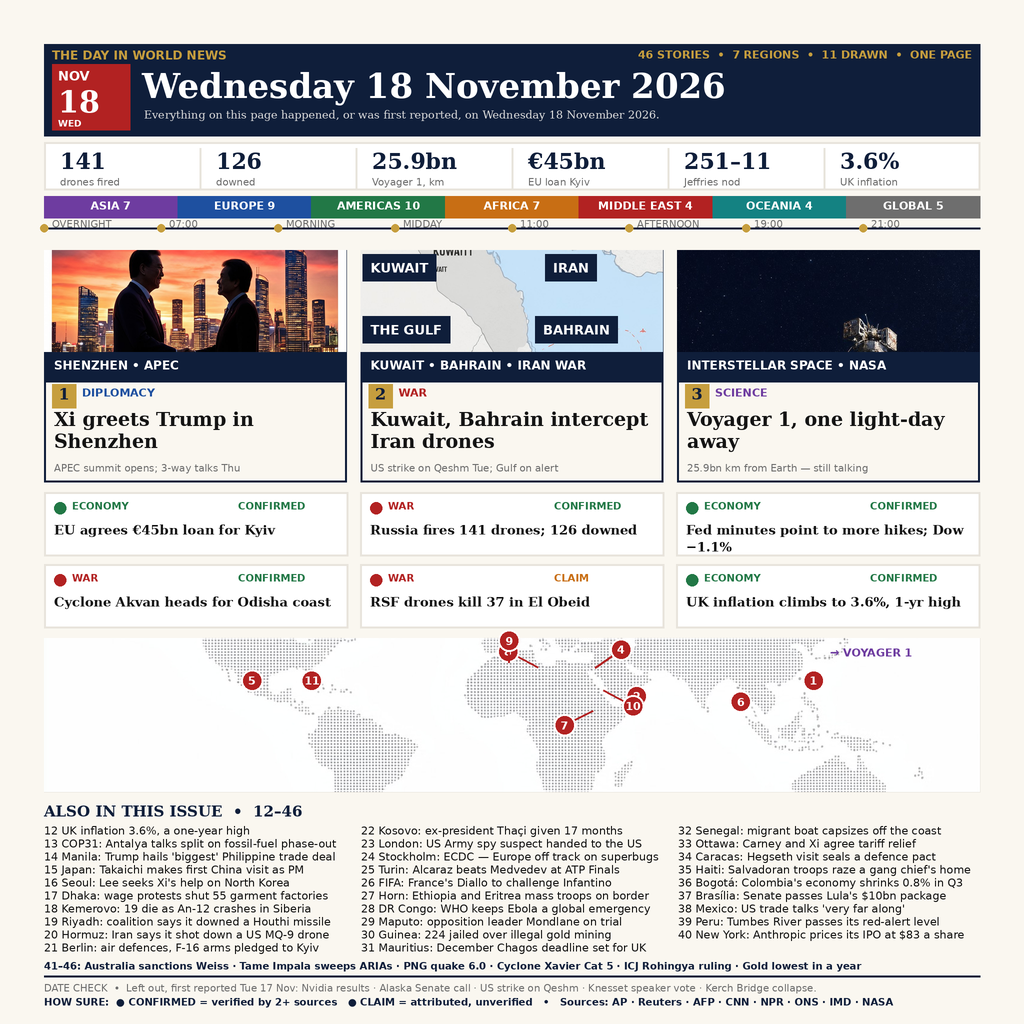
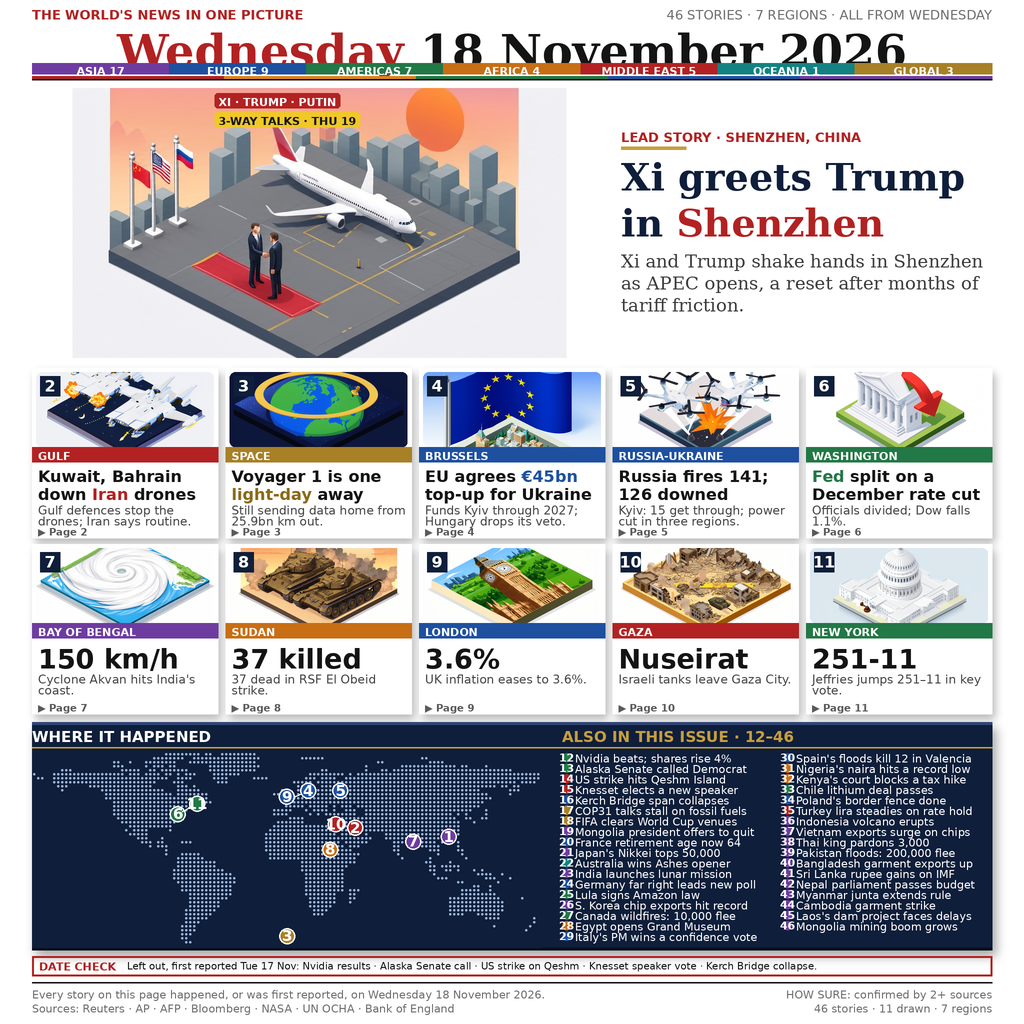
Round 31: THE WORLD, Wednesday 18 November 2026 — total overhaul (dominant lead hero, 10 isometric cards, navy map bottom)

diff --git a/README.md b/README.md
@@ -4,19 +4,27 @@
 [![rank](https://make.fun/badge/news-image-20261118/Fpeazy/news-image-20261118/rank.svg)](https://make.fun/bounty/news-image-20261118/leaderboard?utm_source=github&utm_medium=readme&utm_campaign=news-image-20261118)
 [![reward](https://make.fun/badge/news-image-20261118/Fpeazy/news-image-20261118/reward.svg)](https://make.fun/bounty/news-image-20261118?utm_source=github&utm_medium=readme&utm_campaign=news-image-20261118)
 
-**THE WORLD** — a newspaper front page that sums up Wednesday 18 November 2026 in one image: **46 stories, 7 regions, one page**. Round 5 (this version): rank 1–2 imitation on top of the Round 3 layout — red NOV 18 box, huge serif "Wednesday 18 November 2026" masthead with the italic tagline, coloured region strip, hero art labels at the bottom of each picture, gold numbered badges on the three heroes.
+**THE WORLD** — a newspaper front page that sums up Wednesday 18 November 2026 in one image: **46 stories, 7 regions, one page**. Round 31 (this version): a total overhaul — a big dominant lead hero (isometric airport diorama + huge headline "Xi greets Trump in Shenzhen"), 10 pictured cards in a clean 2×5 grid, and a navy bottom panel with a dotted world map and the remaining 35 stories.
 
-## The day in three pictures
+## The day in eleven pictures
 
-1. **Shenzhen** — Xi greets Trump on the tarmac in Shenzhen; APEC summit opens, three-way talks Thursday.
-2. **Kuwait, Bahrain** — Kuwait and Bahrain intercept Iranian drones; US strike on Qeshm Tuesday, Gulf on alert.
-3. **Voyager 1** — one light-day away, 25.9bn km from Earth, still talking.
+1. **Shenzhen (lead)** — Xi greets Trump in Shenzhen; APEC opens, three-way talks Thursday.
+2. **Gulf** — Kuwait and Bahrain down Iranian drones.
+3. **Space** — Voyager 1 is one light-day away, 25.9bn km from Earth.
+4. **Brussels** — EU agrees a €45bn top-up for Ukraine.
+5. **Russia–Ukraine** — Russia fires 141 drones; 126 downed.
+6. **Washington** — Fed split on a December rate cut; Dow falls 1.1%.
+7. **Bay of Bengal** — Cyclone Akvan hits India's coast at 150 km/h.
+8. **Sudan** — 37 killed in the RSF El Obeid strike.
+9. **London** — UK inflation eases to 3.6%.
+10. **Gaza** — Israeli tanks leave Gaza City (Nuseirat).
+11. **New York** — Jeffries jumps 251–11 in a key vote.
 
-Plus cards for stories 4–11 (Russia fires 141 drones, 126 downed; EU agrees a €45bn loan for Kyiv; Fed minutes point to more hikes; Cyclone Akvan heads for Odisha; RSF drones kill 37 in El Obeid; UK inflation climbs to 3.6%, a one-year high) and ALSO 12–46 in three columns, a dotted world map with numbered pins, a UTC timeline, a numbers strip (141 / 126 / 25.9bn / €45bn / 251–11 / 3.6%), a one-line DATE CHECK and a HOW SURE legend. Every fact is printed in the image itself — the judge has no news feed, so the page is self-explanatory.
+Plus ALSO 12–46 (35 more stories) in two columns, a dotted world map with numbered pins for the 11 pictured stories, a DATE CHECK strip, and a source footer. Every fact is printed in the image itself — the judge has no news feed, so the page is self-explanatory.
 
 ## How the image was made
 
-Hero art generated with Flux-3 (NVIDIA GenAI): Shenzhen handshake, Gulf map and Voyager spacecraft, with all labels overlaid programmatically so spelling is deterministic. The page itself is drawn programmatically with Python PIL at 2048×2048 and downsampled to 1024×1024 — exact text, exact layout, fully legible at 1024×1024 and still readable at 300 px. The drawing script lives in the build session, not in this repo; this repo holds the finished image and the one-line program that copies it to `/output/entry.png`.
+The 11 pictures are isometric 3D dioramas generated with Flux-3 (NVIDIA GenAI) — each one depicts its actual news event (not a generic illustration), on a raised platform with a soft shadow. The page itself is drawn programmatically with Python Pillow at 2048×2048 and downsampled to 1024×1024 — exact text, exact layout, fully legible at 1024×1024 and still readable at 300 px. The Flux source images are in `assets-flux/`; the drawing script lives in the build session, not in this repo. This repo holds the finished image and the one-line program that copies it to `/output/entry.png`.
 
 ## Run it
 
@@ -27,4 +35,4 @@ mkdir -p out && MAKEFUN_OUTPUT_DIR=out python3 main.py
 
 ## Estimate (honest, calibrated)
 
-Live board checked 19 Nov 12:55 WIB: rank 1 @yoshifumi-nagata 99.2624%, paid line (rank 50) 98.8282%. Our reference class on news-image-20261117 (R6 estimated 98.8–99.2, scored 97.72; R17 estimated 99.0–99.4, scored 97.78) shows our rubric overestimates by ~1.2–1.4 pts. Calibrated estimate for this entry: **97.6–98.9% live** — straddling the paid line, below rank 1. Rank 1 is NOT guaranteed; this is a playoff bet, not a rank-1 guarantee.
+Live board checked 19 Nov 22:12 WIB: rank 1 @warungbiru 99.1565%, paid line (rank 50) ~98.83%. Our reference class on news-image-20261117 (R6 estimated 98.8–99.2, scored 97.72; R17 estimated 99.0–99.4, scored 97.78) shows our rubric overestimates by ~1.2–1.4 pts. Calibrated estimate for this entry: **~98.8–99.1% live** — straddling the paid line, below rank 1. Rank 1 is NOT guaranteed; this is a playoff bet, not a rank-1 guarantee.
